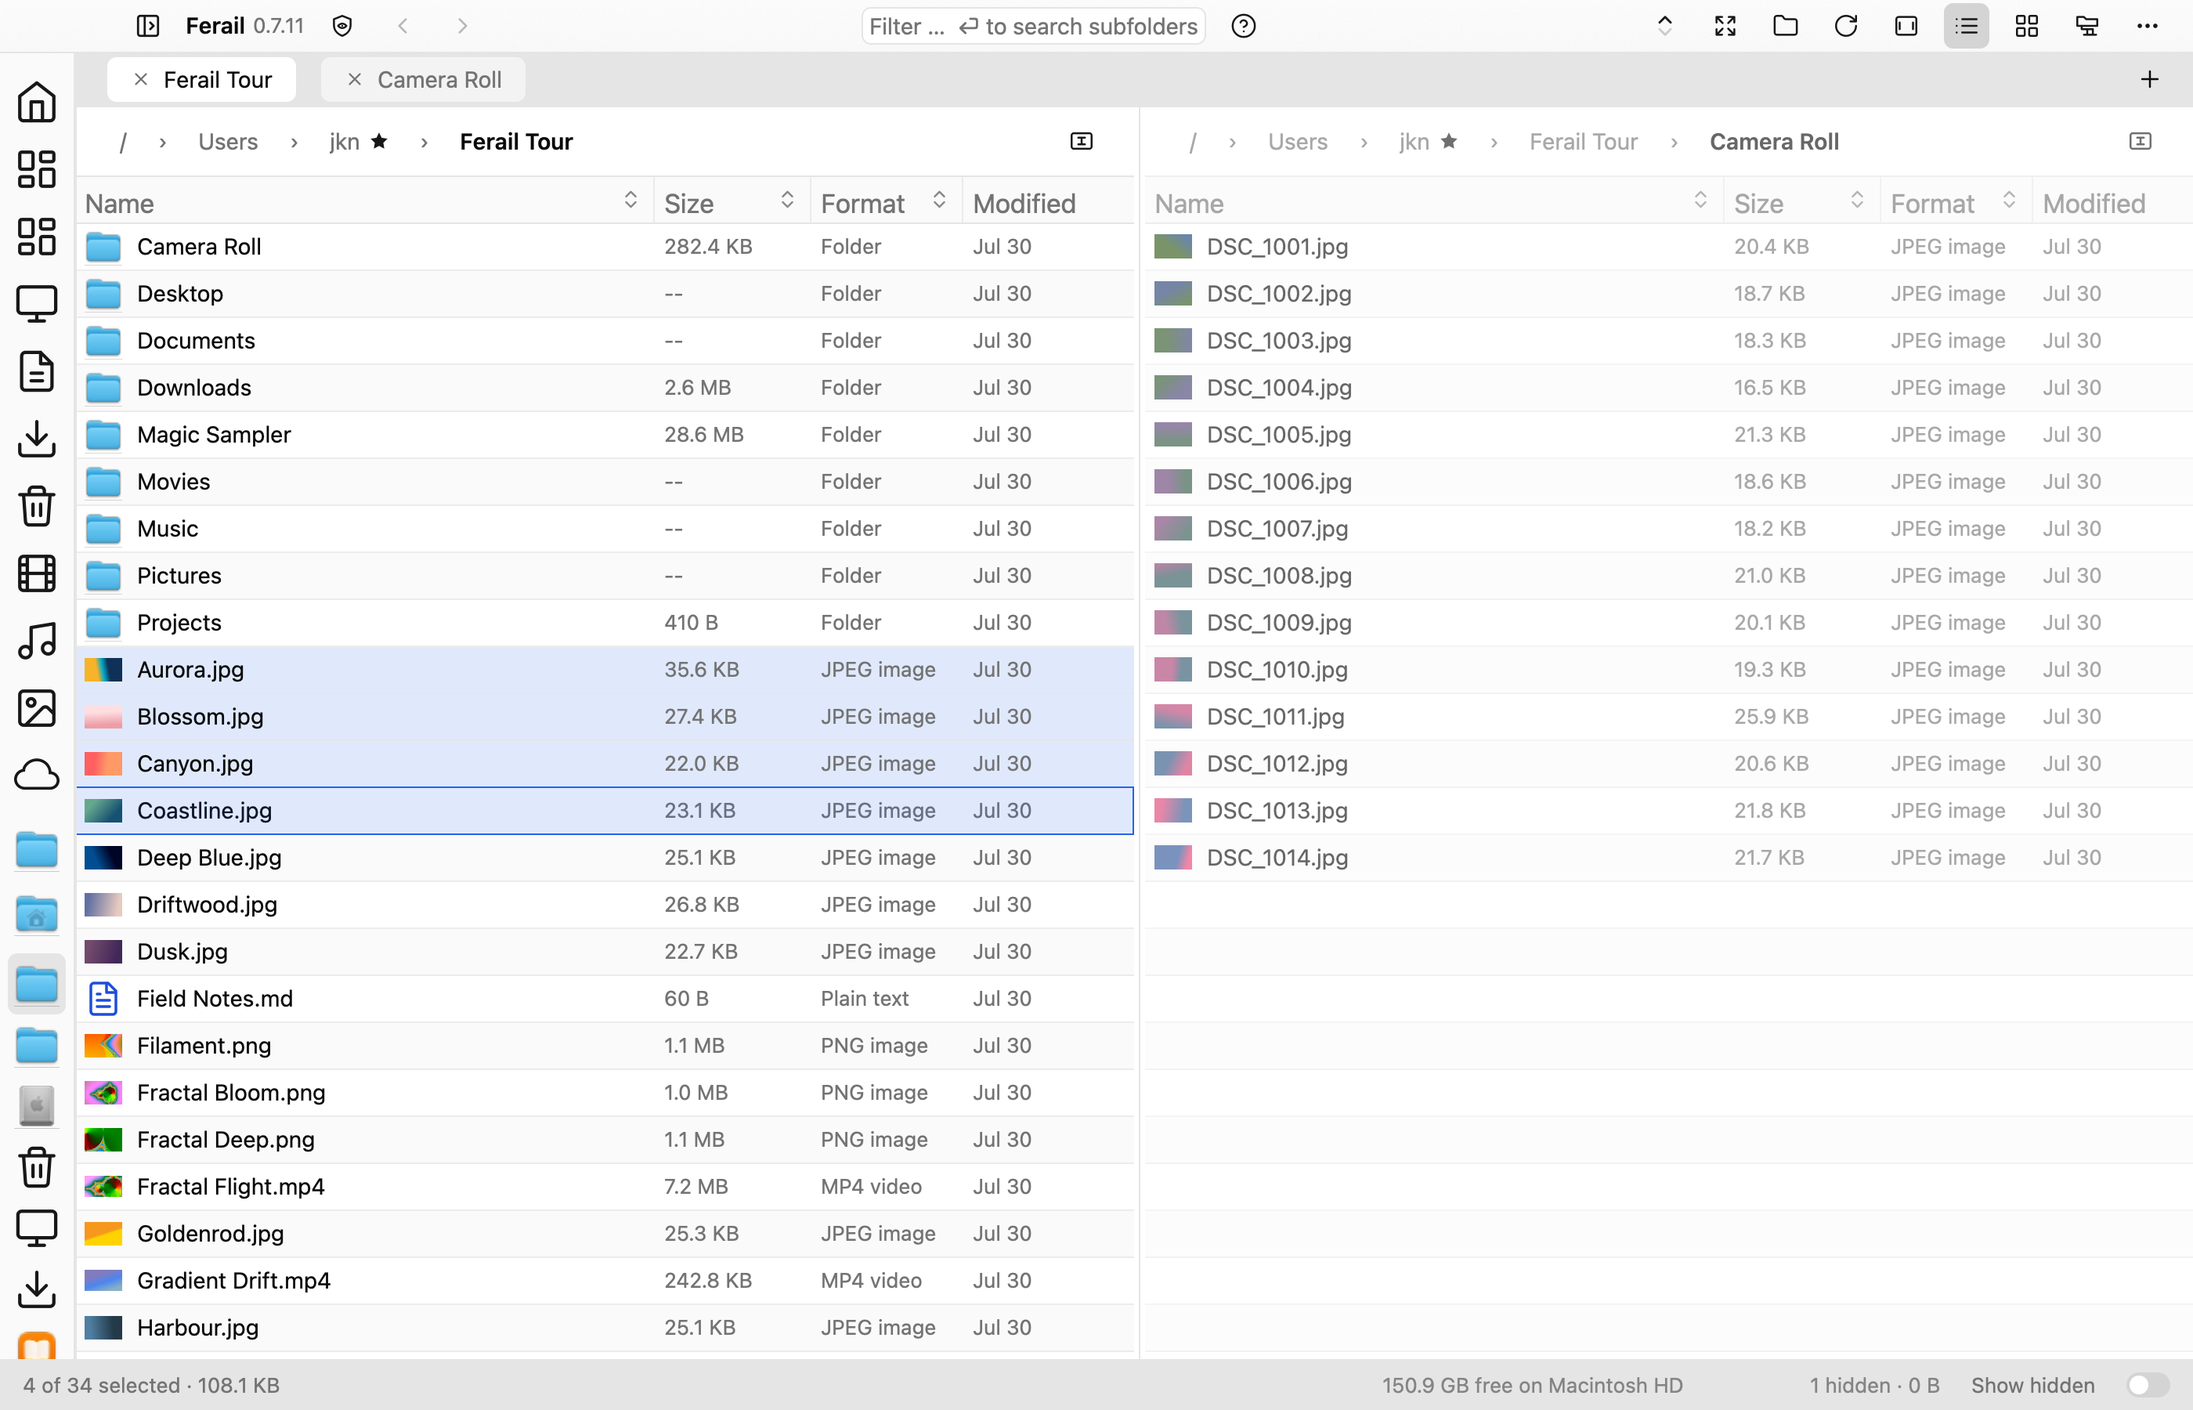
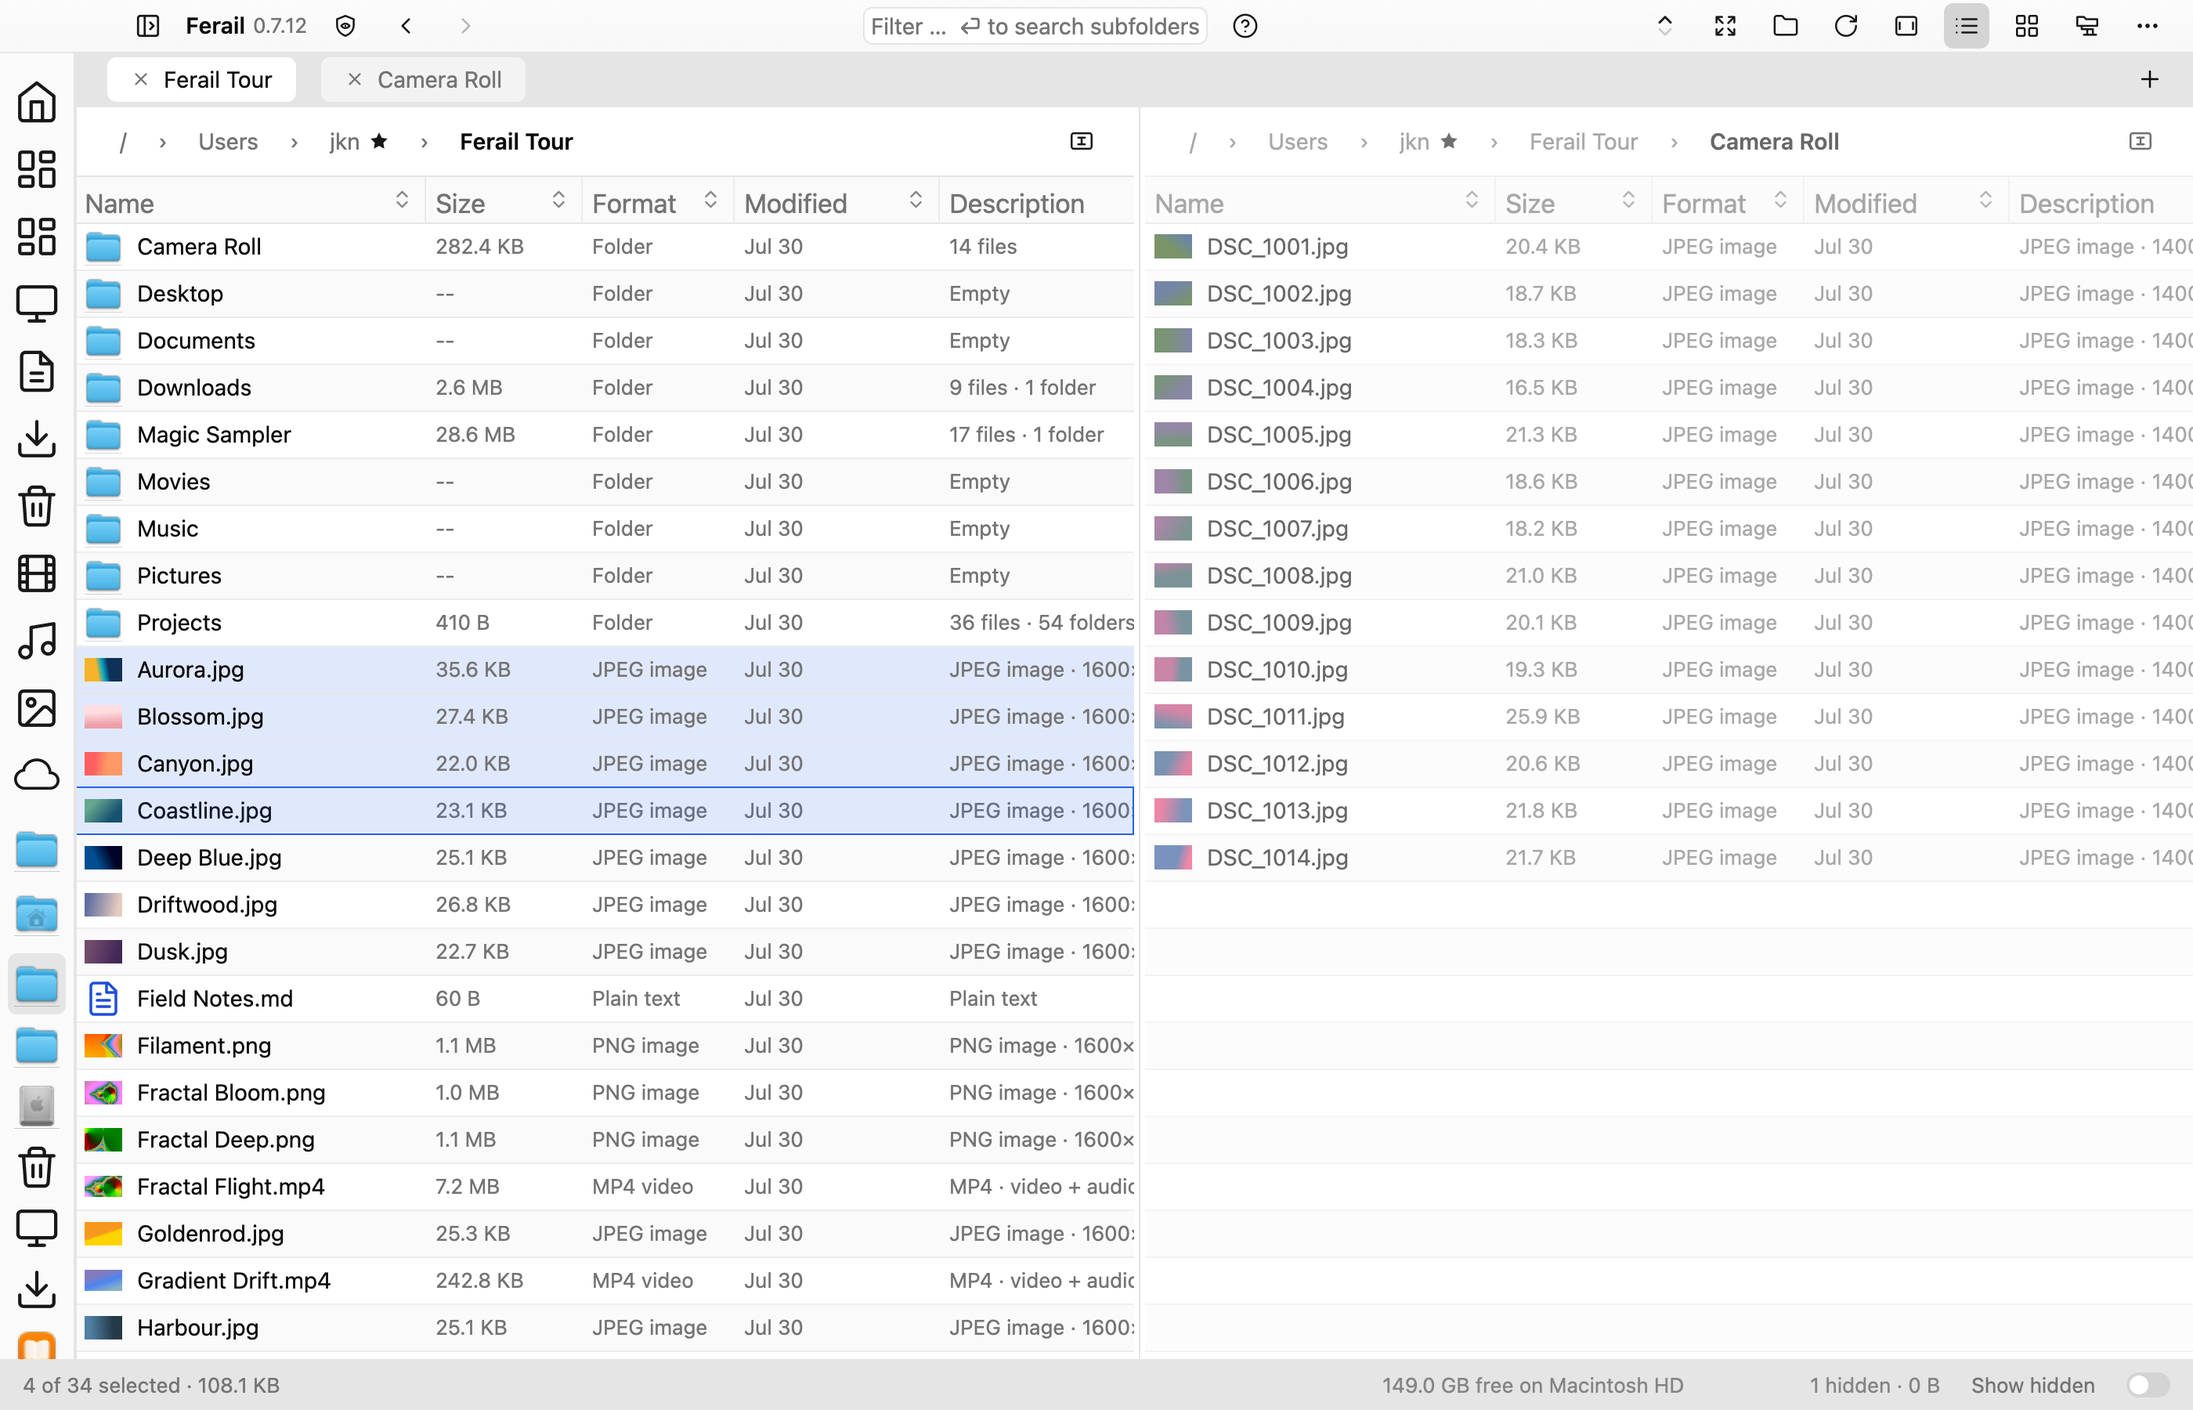
feat(split): copy and move to the other pane, letter shortcuts
Copy to Other Pane (Cmd+Option+C) and Move to Other Pane (Cmd+Option+M)
send the selection to the folder shown in the other pane as an ordinary
transfer.

Split Right, Split Down and Switch Pane move from backslash chords to
Cmd+Option+S, Cmd+Option+Shift+S and Cmd+Option+P: backslash sits behind
Option on AZERTY, so the chords could not be typed on a French keyboard.

diff --git a/crates/ferail-gpui/src/shell/split.rs b/crates/ferail-gpui/src/shell/split.rs
@@ -18,7 +18,9 @@ use gpui::{
 use gpui_component::ActiveTheme as _;
 
 use super::tab::TabId;
-use super::{Shell, SplitDown, SplitRight, SwitchPane};
+use super::{
+    CopyToOtherPane, MoveToOtherPane, Shell, SplitDown, SplitRight, SwitchPane, TransferMode,
+};
 
 /// Smallest share of the split area either pane keeps while the divider is
 /// dragged.
@@ -243,6 +245,76 @@ impl Shell {
         let tab = self.tabs[idx].id;
         self.focus_pane_tab(tab, cx);
         self.focus_active_surface(window, cx);
+    }
+
+    pub(super) fn on_copy_to_other_pane(
+        &mut self,
+        _: &CopyToOtherPane,
+        window: &mut Window,
+        cx: &mut Context<Self>,
+    ) {
+        self.transfer_to_other_pane(TransferMode::Copy, window, cx);
+    }
+
+    pub(super) fn on_move_to_other_pane(
+        &mut self,
+        _: &MoveToOtherPane,
+        window: &mut Window,
+        cx: &mut Context<Self>,
+    ) {
+        self.transfer_to_other_pane(TransferMode::Move, window, cx);
+    }
+
+    /// Copy or move the focused pane's selection into the folder the other
+    /// pane shows. The transfer itself is the ordinary one: planned and run
+    /// off-thread, with collisions, progress, cancellation and undo.
+    fn transfer_to_other_pane(
+        &mut self,
+        mode: TransferMode,
+        window: &mut Window,
+        cx: &mut Context<Self>,
+    ) {
+        use crate::overlay::OverlayWindowExt as _;
+        use gpui_component::notification::Notification;
+
+        self.sync_split();
+        let Some(other) = self.other_pane_index() else {
+            window.push_notice(
+                Notification::info(tr!(
+                    "Split the window first: there is no other pane to send items to."
+                )),
+                cx,
+            );
+            return;
+        };
+        if self.reject_platform_filesystem_command(window, cx) {
+            return;
+        }
+        // Only a plain folder listing names a destination. Search results,
+        // an open archive or a provider-owned location do not.
+        let destination = &self.tabs[other];
+        if destination.tool_result.is_some() || destination.platform_namespace.is_some() {
+            window.push_notice(
+                Notification::info(tr!("The other pane is not showing a folder.")),
+                cx,
+            );
+            return;
+        }
+        let dest = destination.current_dir.clone();
+        let sources: Vec<std::path::PathBuf> = self
+            .action_entries_visible_order(cx)
+            .into_iter()
+            .map(|(_, _, path)| path)
+            .collect();
+        if sources.is_empty() {
+            return;
+        }
+        // Both panes on the same folder: a move would be a no-op and a copy
+        // is what Duplicate is for.
+        if sources.iter().all(|s| s.parent() == Some(dest.as_path())) {
+            return;
+        }
+        self.spawn_transfer_op(sources, dest, mode, window, cx);
     }
 
     /// Follow the pointer while the divider is held.

diff --git a/crates/ferail-core/src/commands.rs b/crates/ferail-core/src/commands.rs
@@ -370,6 +370,18 @@ const CATALOGUE: &[CommandSpec] = &[
         shortcuts: &[Shortcut::primary_alt("V")],
     },
     CommandSpec {
+        id: CommandId("file.copy_to_other_pane"),
+        title: msgid!("Copy to Other Pane"),
+        category: Category::File,
+        shortcuts: &[Shortcut::primary_alt("C")],
+    },
+    CommandSpec {
+        id: CommandId("file.move_to_other_pane"),
+        title: msgid!("Move to Other Pane"),
+        category: Category::File,
+        shortcuts: &[Shortcut::primary_alt("M")],
+    },
+    CommandSpec {
         id: CommandId("file.reveal_in_finder"),
         title: REVEAL_LABEL,
         category: Category::File,
@@ -464,24 +476,31 @@ const CATALOGUE: &[CommandSpec] = &[
         shortcuts: &[],
     },
     // Split view (docs/features/SPLIT_VIEW.md). Both split commands
-    // toggle: the one matching the current split closes it.
+    // toggle: the one matching the current split closes it. Letters only:
+    // punctuation such as `\` needs Option on AZERTY and other layouts, so
+    // a shortcut built on it cannot be typed there.
     CommandSpec {
         id: CommandId("view.split_right"),
         title: msgid!("Split Right"),
         category: Category::View,
-        shortcuts: &[Shortcut::primary("\\")],
+        shortcuts: &[Shortcut::primary_alt("S")],
     },
     CommandSpec {
         id: CommandId("view.split_down"),
         title: msgid!("Split Down"),
         category: Category::View,
-        shortcuts: &[Shortcut::primary_shift("\\")],
+        shortcuts: &[Shortcut {
+            key: "S",
+            primary: true,
+            shift: true,
+            alt: true,
+        }],
     },
     CommandSpec {
         id: CommandId("view.switch_pane"),
         title: msgid!("Switch Pane"),
         category: Category::View,
-        shortcuts: &[Shortcut::primary_alt("\\")],
+        shortcuts: &[Shortcut::primary_alt("P")],
     },
     CommandSpec {
         id: CommandId("view.cycle_focus"),

diff --git a/crates/ferail-gpui/src/boot.rs b/crates/ferail-gpui/src/boot.rs
@@ -922,6 +922,15 @@ pub(crate) fn install_app_menus(cx: &mut App) {
                 MenuItem::action(title("file.paste", "Paste"), PasteFiles),
                 MenuItem::action(title("file.move_paste", "Move Items Here"), MovePasteFiles),
                 MenuItem::separator(),
+                MenuItem::action(
+                    title("file.copy_to_other_pane", "Copy to Other Pane"),
+                    crate::shell::CopyToOtherPane,
+                ),
+                MenuItem::action(
+                    title("file.move_to_other_pane", "Move to Other Pane"),
+                    crate::shell::MoveToOtherPane,
+                ),
+                MenuItem::separator(),
                 MenuItem::action(title("file.copy_path", "Copy Path"), CopyPath),
             ],
             disabled: false,

diff --git a/crates/ferail-gpui/src/keyboard_help.rs b/crates/ferail-gpui/src/keyboard_help.rs
@@ -70,6 +70,8 @@ fn action_for_command(id: ferail_core::commands::CommandId) -> Option<Box<dyn gp
         "file.copy" => Box::new(CopyFiles),
         "file.paste" => Box::new(PasteFiles),
         "file.move_paste" => Box::new(MovePasteFiles),
+        "file.copy_to_other_pane" => Box::new(crate::shell::CopyToOtherPane),
+        "file.move_to_other_pane" => Box::new(crate::shell::MoveToOtherPane),
         "file.delete_immediately" => Box::new(DeleteImmediately),
         "file.empty_trash" => Box::new(EmptyTrash),
         "file.reopen_closed_tab" => Box::new(ReopenClosedTab),

diff --git a/crates/ferail-gpui/src/keymap.rs b/crates/ferail-gpui/src/keymap.rs
@@ -194,6 +194,8 @@ fn install_binding(cx: &mut App, id: CommandId, kb_str: &str) -> bool {
         "file.cut" => bind!(CutFiles, ctx),
         "file.paste" => bind!(PasteFiles, ctx),
         "file.move_paste" => bind!(MovePasteFiles, ctx),
+        "file.copy_to_other_pane" => bind!(crate::shell::CopyToOtherPane, ctx),
+        "file.move_to_other_pane" => bind!(crate::shell::MoveToOtherPane, ctx),
         "file.reveal_in_finder" => bind!(RevealInFinder, ctx),
         "file.refresh" => bind!(Refresh, ctx),
         "file.edit" => bind!(EditFile, ctx),

diff --git a/crates/ferail-gpui/src/shell/render.rs b/crates/ferail-gpui/src/shell/render.rs
@@ -5088,6 +5088,8 @@ impl Render for Shell {
             .on_action(cx.listener(Self::on_split_right))
             .on_action(cx.listener(Self::on_split_down))
             .on_action(cx.listener(Self::on_switch_pane))
+            .on_action(cx.listener(Self::on_copy_to_other_pane))
+            .on_action(cx.listener(Self::on_move_to_other_pane))
             .on_action(cx.listener(Self::on_prev_tab))
             .on_action(cx.listener(Self::on_quick_look))
             .on_action(cx.listener(Self::on_go_home))

diff --git a/crates/ferail-gpui/src/shell/actions.rs b/crates/ferail-gpui/src/shell/actions.rs
@@ -117,6 +117,10 @@ actions!(
         SplitDown,
         /// Move the focus to the other pane of a split window.
         SwitchPane,
+        /// Copy the selection into the folder shown in the other pane.
+        CopyToOtherPane,
+        /// Move the selection into the folder shown in the other pane.
+        MoveToOtherPane,
         QuickLook,
         /// Cmd+Y: open the viewer window on the current folder's
         /// files (docs/features/VIEWER.md). Space stays Quick Look.

diff --git a/docs/features/SPLIT_VIEW.md b/docs/features/SPLIT_VIEW.md
@@ -13,12 +13,16 @@ without losing sight of either.
 
 | Command | Shortcut | Effect |
 | --- | --- | --- |
-| Split Right | Cmd+\ | Show two tabs side by side. On a side-by-side split, close it. |
-| Split Down | Cmd+Shift+\ | Show two tabs stacked. On a stacked split, close it. |
-| Switch Pane | Cmd+Option+\, Option+Tab on macOS | Move the focus to the other pane. |
+| Split Right | Cmd+Option+S | Show two tabs side by side. On a side-by-side split, close it. |
+| Split Down | Cmd+Option+Shift+S | Show two tabs stacked. On a stacked split, close it. |
+| Switch Pane | Cmd+Option+P, Option+Tab on macOS | Move the focus to the other pane. |
+| Copy to Other Pane | Cmd+Option+C | Copy the selection into the other pane's folder. |
+| Move to Other Pane | Cmd+Option+M | Move the selection into the other pane's folder. |
 
-The three commands are in the View menu. A split along the other axis turns
-instead of closing.
+The split commands are in the View menu, the transfer commands in the Edit
+menu. A split along the other axis turns instead of closing. Every shortcut
+is a letter with modifiers, so it can be typed on any keyboard layout:
+punctuation such as `\` sits behind Option on AZERTY and others.
 
 - **Which tabs.** A split lines up the active tab with its right-hand
   neighbour in the tab strip, or its left-hand one when it is the last. A
@@ -32,9 +36,13 @@ instead of closing.
   focused pane.
 - **Per pane.** Folder, history, selection, sort, list or grid view and
   scroll position, because each pane is a tab.
-- **Moving files.** Drag from one pane to the other. The pane under the
-  pointer takes the focus, and the drop lands in its folder or in the folder
-  row under the pointer, with the copy or move rules of any other drop.
+- **Moving files.** Copy to Other Pane and Move to Other Pane send the
+  selection to the folder the other pane shows, as an ordinary transfer:
+  collision prompt, progress, cancellation, undo. They refuse when the other
+  pane shows search results, an archive or another listing that is not a
+  folder. Dragging works too: the pane under the pointer takes the focus,
+  and the drop lands in its folder or in the folder row under the pointer,
+  with the copy or move rules of any other drop.
 - **Divider.** Drag it to resize; double-click it to even the panes out.
 - **Closing.** Closing either visible tab closes the split and leaves the
   other tab active.

diff --git a/docs/STATUS.md b/docs/STATUS.md
@@ -92,7 +92,7 @@ the rest is tracked in [TODO.md](../TODO.md).
 | [SEARCH.md](features/SEARCH.md) | Shipped with follow-ups | In-folder filter, recursive walker, Spotlight/global search, streaming results, cancellation, and task integration ship; filters/operators and Linux/Windows indexers remain open. |
 | [SIDEBAR_LAYOUT.md](features/SIDEBAR_LAYOUT.md) | Implemented; cross-platform visual qualification pending | Persistent section disclosure/order and normal/compact/icon density, with stable IDs for conditional platform sections. |
 | [SIDECARS.md](features/SIDECARS.md) | Shipped with follow-ups | Content-first NFO/DIZ recognition, CP437/ANSI/Kodi preview, safe SFV/checksum verification and generation, and a memory-only folder sidecar card ship; compact million-entry parsing/results and richer report actions remain. |
-| [SPLIT_VIEW.md](features/SPLIT_VIEW.md) | Shipped with follow-ups | Two tabs side by side or stacked, focus by click or drag, cross-pane drops and a draggable divider ship; keyboard copy/move to the other pane and drag-a-tab-to-split remain open. |
+| [SPLIT_VIEW.md](features/SPLIT_VIEW.md) | Shipped with follow-ups | Two tabs side by side or stacked, focus by click or drag, keyboard copy/move to the other pane, cross-pane drops and a draggable divider ship; drag-a-tab-to-split remains open. |
 | [STATUS_PROGRESS.md](features/STATUS_PROGRESS.md) | Shipped with follow-ups | Task registry, status strip, task popover, cancellation flags, recent history, and screenshot simulation ship; completion notifications and accessibility announcements remain open. |
 | [STREAMING_ENUMERATION.md](features/STREAMING_ENUMERATION.md) | Shipped with follow-ups | Directory enumeration is worker-driven, batched, cancellable, and notification-based; slow-path/stale-result tests and partial-error UI remain open. |
 | [SYSTEM_STATS.md](features/SYSTEM_STATS.md) | Shipped | CPU and redraw figures in the status bar, normalized the way the platform's own task manager reports them. |

diff --git a/NOTES.md b/NOTES.md
@@ -30,8 +30,10 @@ Two of a window's tabs can be shown at once
 - **Kept small on purpose.** Two panes, two axes, three commands. The
   reference was Bloom's ten layouts with synchronized browsing and pane
   locks; none of those earn their surface for sorting between two folders.
-- **Deferred:** keyboard copy/move to the other pane, dragging a tab into
-  the split. A layout with more panes would need the split to become a tree,
+- **Letter shortcuts only.** The first binding was Cmd+\, which cannot be
+  typed on a French Mac keyboard: `\` is Option+Shift+: there. Split, switch
+  and transfer all use Cmd+Option plus a letter.
+- **Deferred:** dragging a tab into the split. A layout with more panes would need the split to become a tree,
   and would be reconsidered only on a concrete need.
 
 # 2026-10-25 Native AROS port

diff --git a/TODO.md b/TODO.md
@@ -131,10 +131,9 @@ Net-new, but each sits on plumbing that already exists.
   [split view](docs/features/SPLIT_VIEW.md): each pane is a source for the
   same target.
 - **Split view follow-ups** ([SPLIT_VIEW.md](docs/features/SPLIT_VIEW.md)).
-  Keyboard Copy and Move to the other pane, so sorting between two folders
-  needs no drag; dragging a tab chip onto the file area to choose which tab
-  joins the split; a `--screenshot` gesture that drags between panes, since
-  the cross-pane drop is the one path the harness cannot exercise.
+  Dragging a tab chip onto the file area to choose which tab joins the
+  split; a `--screenshot` gesture that drags between panes, since the
+  cross-pane drop is the one path the harness cannot exercise.
 
 ## File list, sidebar and navigation
 

diff --git a/docs/features/SCREENSHOTS.md b/docs/features/SCREENSHOTS.md
@@ -69,7 +69,7 @@ look more interesting.
 - **Navigation**: `--navigate <path>` (repeatable; chaining seeds realistic
   ant-trail visit counts), `--new-tab <path>` (repeatable), `--tab <idx>`,
   `--expand <path>` (unfurl the sidebar tree), `--show-hidden`.
-- **Split view**: open one with `--keys 'cmd-\ pause'`; an `o` prefix in
+- **Split view**: open one with `--keys 'cmd-alt-s pause'`; an `o` prefix in
   `--click-rows` (`o3`, `o0:2`) aims the click at the pane that does not have
   the focus.
 - **Selection & sort**: `--select-row N`, `--select-name <name>`,
